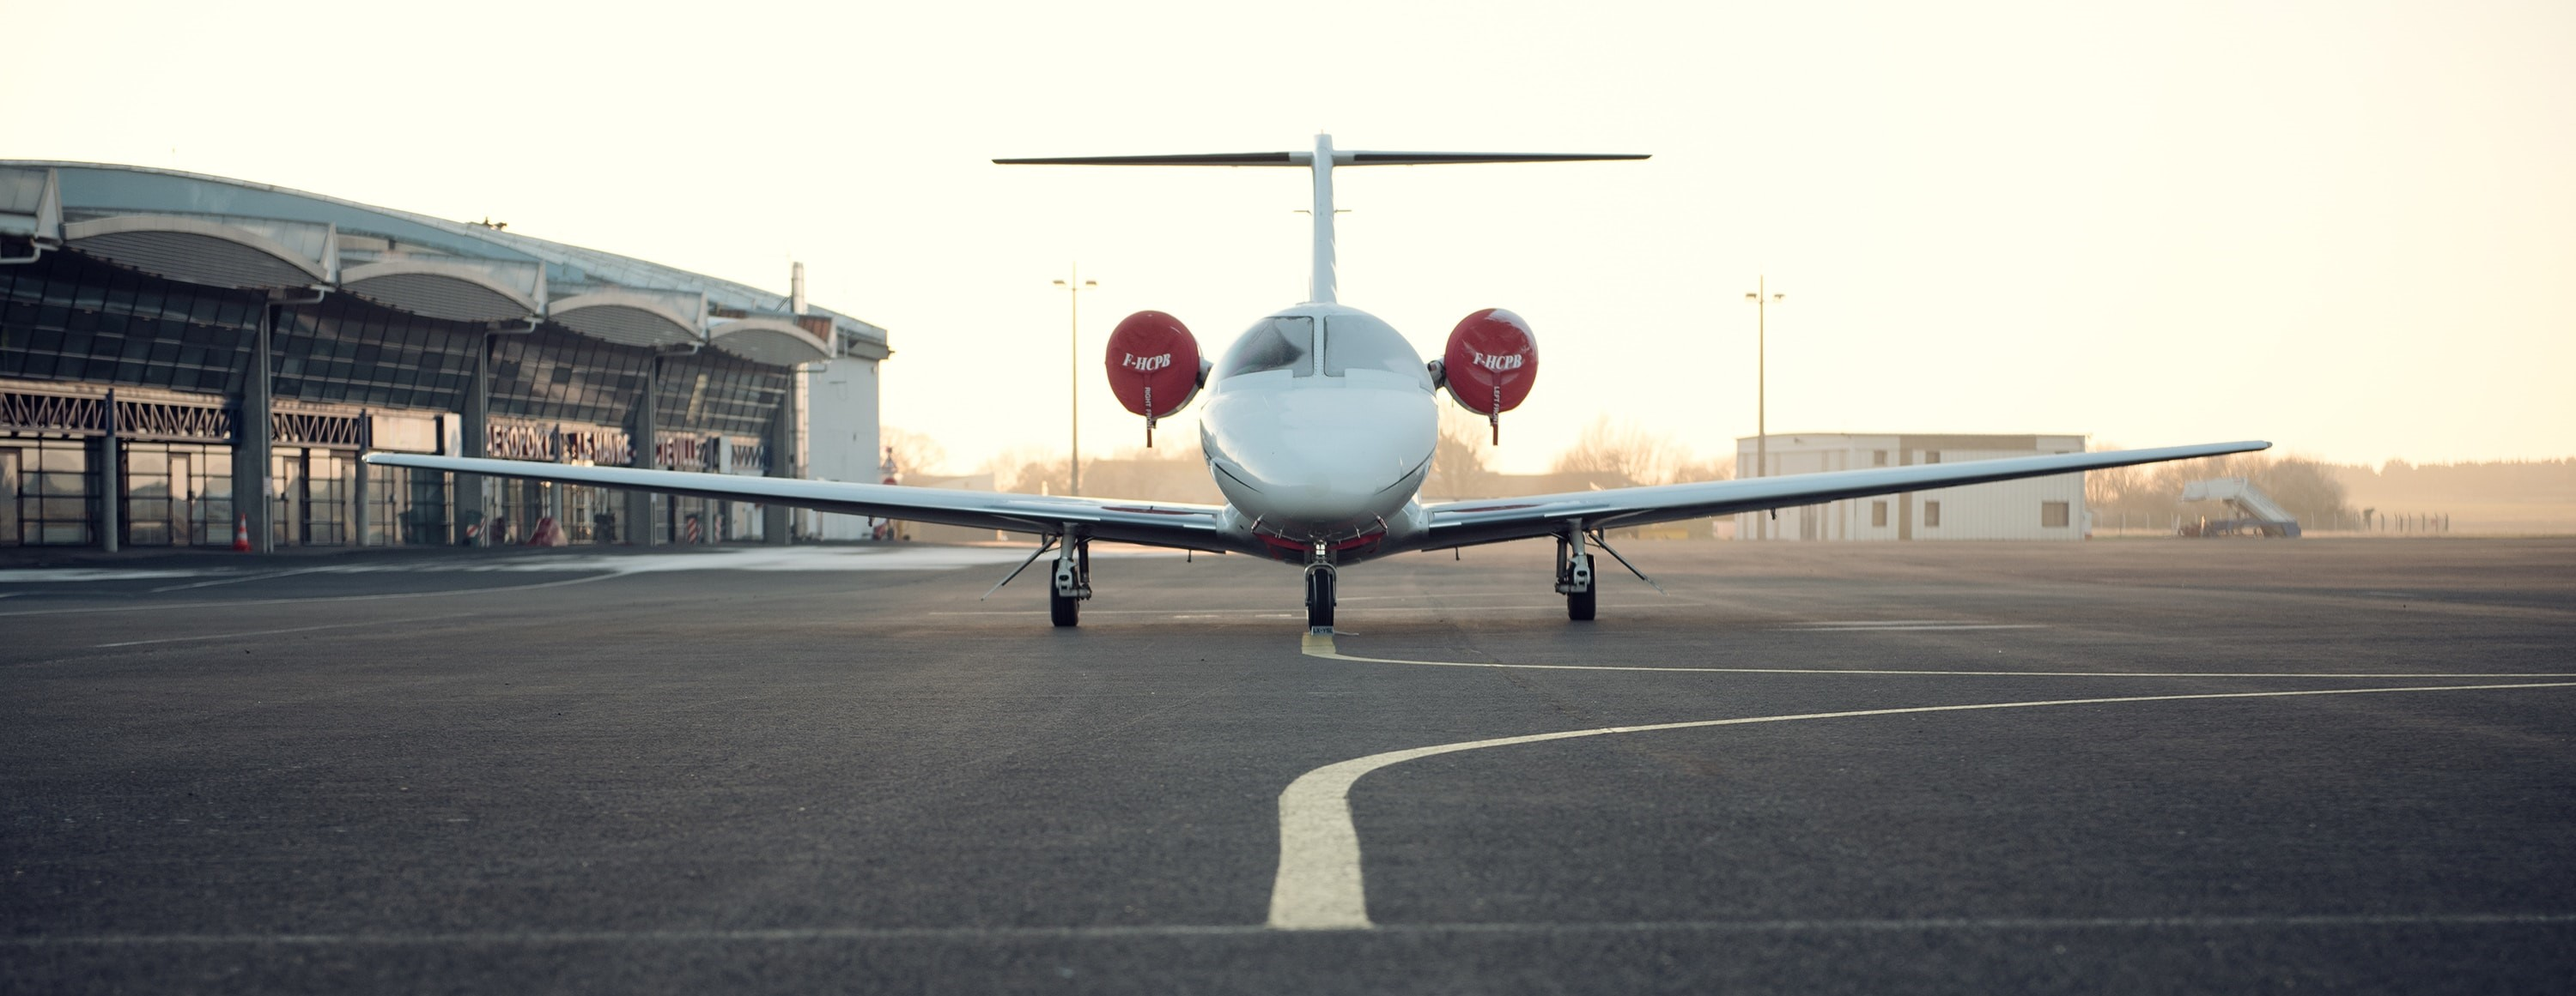
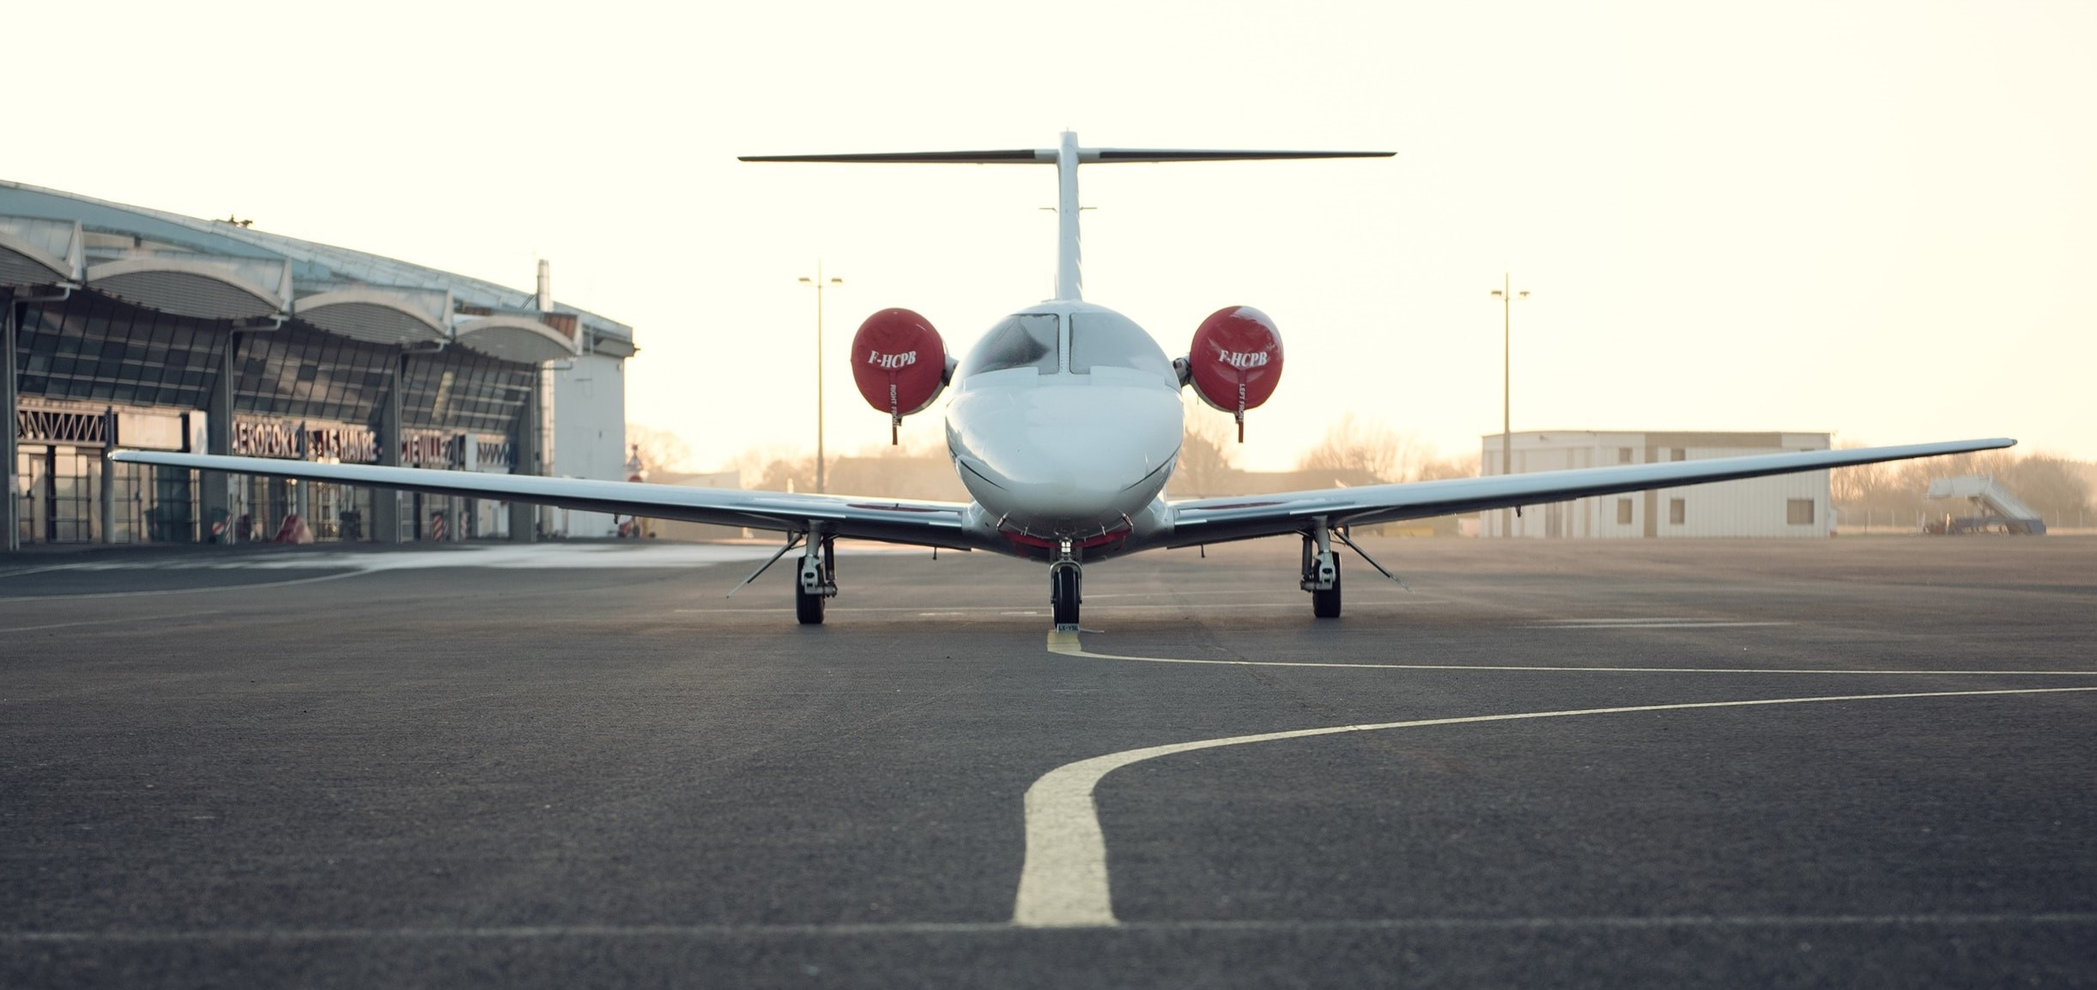
added new features
changed font color and font family and added animations

diff --git a/index.html b/index.html
@@ -4,57 +4,70 @@
 <head>
   <meta charset="utf-8">
   <title>Aeroresh Website</title>
-  <link rel="stylesheet" href="css/styles.css">
   <link rel="stylesheet" href="https://stackpath.bootstrapcdn.com/bootstrap/4.4.1/css/bootstrap.min.css" integrity="sha384-Vkoo8x4CGsO3+Hhxv8T/Q5PaXtkKtu6ug5TOeNV6gBiFeWPGFN9MuhOf23Q9Ifjh" crossorigin="anonymous">
+  <link href="https://fonts.googleapis.com/css?family=Montserrat:300,400,700,900&display=swap" rel="stylesheet">
+  <link href="https://unpkg.com/aos@2.3.1/dist/aos.css" rel="stylesheet">
+  <link rel="stylesheet" href="css/styles.css">
   <script src="https://kit.fontawesome.com/9f7fe4ea4a.js" crossorigin="anonymous"></script>
 </head>
 
 <body>
   <section id="navigation">
     <nav class="navbar navbar-expand-lg navbar-light bg-white">
-      <a class="navbar-brand" href="#">Aeroresh</a>
+      <a class="navbar-brand navText" href="#">Aeroresh</a>
       <button class="navbar-toggler" type="button" data-toggle="collapse" data-target="#navbarNavDropdown" aria-controls="navbarNavDropdown" aria-expanded="false" aria-label="Toggle navigation">
         <span class="navbar-toggler-icon"></span>
       </button>
       <div class="collapse navbar-collapse" id="navbarNavDropdown">
         <ul class="navbar-nav ml-auto">
           <li class="nav-item">
-            <a class="nav-link" href="#">Home <span class="sr-only">(current)</span></a>
+            <a class="nav-link navText" href="#">Home <span class="sr-only">(current)</span></a>
           </li>
           <li class="nav-item">
-            <a class="nav-link" href="#">Contact</a>
+            <a class="nav-link navText" href="#">Contact</a>
           </li>
         </ul>
       </div>
     </nav>
   </section>
   <section id="introduction">
-      <img class="introImg" src="img/Aeroplane.jpg" alt="picture of an aeroplane">
+      <img class="introImg" src="img/Aeroplane-blue.jpg" alt="picture of an aeroplane">
       <div class="introContainer">
-        <h1><span class="rounded bg-white">Aeroresh</span></h1>
-        <h3 class="rounded bg-white">Aircraft, Oil and Commodity Trading</h3>
+        <h1><span class="montBlack">Aeroresh</span></h1>
+        <h3 class="montLight">Aircraft, Oil and Commodity Trading</h3>
+        <button class="btn btn-light introBtn" type="button" name="button">Get In Touch</button>
       </div>
   </section>
   <section id="about">
     <div class="container">
-      <h3>Our Core Products</h3>
-      <p>Based at Hawarden Airport (EGNR) in the United Kingdom, Aero Services
-      Consulting Ltd is an Aviation Consultancy company who specialise in
-      offering industry advice to clients all over the world. </p>
-      <ul>
-        <li>Charter an aircraft from Hawarden airport and take advantage of
-        empty legs, minimal positioning and based aircraft available for ad-hoc
-        charter. </li>
-        <li>Visit us at Hawarden Airport for a free aircraft purchasing
-        consultation.</li>
-        <li>Come and visit us in the North West of England to review our
-        aircraft engine and major assets portfolio.</li>
-        <li>We also take stock of small parts and ground equipment for sale and
-        lease. Our dynamic inventory is constantly being updated so get in
-        touch for our latest lists.</li>
-      </ul>
-      <p>We look forward to assisting you in the future!</p>
-    </div>
+      <div class="row rowMargin">
+        <div class="col-6" data-aos="fade-right" data-aos-offset="300" data-aos-easing="ease-in-sine">
+          <h3 class="colH3">Lorem ipsum dolor sit amet, consectetur adipiscing elit. Donec rutrum, ipsum et hendrerit ultricies, metus.</h1>
+        </div>
+        <div class="col-6">
+          <p>Lorem ipsum dolor sit amet, consectetur adipiscing elit. Vestibulum
+            auctor nunc nec diam pharetra, sed scelerisque ipsum fermentum.
+            Phasellus sed eros efficitur, laoreet massa at, fringilla purus.
+            Cras aliquam rhoncus hendrerit. Vestibulum vitae consectetur augue.
+            Nullam arcu orci, faucibus non mi non, dignissim sollicitudin augue.
+            Sed euismod blandit mi sit amet sodales. Proin suscipit ipsum
+            tincidunt tellus gravida, eget eleifend diam porttitor.</p>
+        </div>
+      </div>
+      <div class="row rowMargin">
+        <div class="col-6">
+          <p>Lorem ipsum dolor sit amet, consectetur adipiscing elit. Vestibulum
+            auctor nunc nec diam pharetra, sed scelerisque ipsum fermentum.
+            Phasellus sed eros efficitur, laoreet massa at, fringilla purus.
+            Cras aliquam rhoncus hendrerit. Vestibulum vitae consectetur augue.
+            Nullam arcu orci, faucibus non mi non, dignissim sollicitudin augue.
+            Sed euismod blandit mi sit amet sodales. Proin suscipit ipsum
+            tincidunt tellus gravida, eget eleifend diam porttitor.</p>
+        </div>
+        <div class="col-6" data-aos="fade-left" data-aos-offset="300" data-aos-easing="ease-in-sine">
+          <h3 class="colH3">Lorem ipsum dolor sit amet, consectetur adipiscing elit. Donec rutrum, ipsum et hendrerit ultricies, metus.</h1>
+        </div>
+      </div>
   </section>
   <section id="footer">
     <div class="container">
@@ -77,6 +90,10 @@
   <script src="https://code.jquery.com/jquery-3.4.1.slim.min.js" integrity="sha384-J6qa4849blE2+poT4WnyKhv5vZF5SrPo0iEjwBvKU7imGFAV0wwj1yYfoRSJoZ+n" crossorigin="anonymous"></script>
 <script src="https://cdn.jsdelivr.net/npm/popper.js@1.16.0/dist/umd/popper.min.js" integrity="sha384-Q6E9RHvbIyZFJoft+2mJbHaEWldlvI9IOYy5n3zV9zzTtmI3UksdQRVvoxMfooAo" crossorigin="anonymous"></script>
 <script src="https://stackpath.bootstrapcdn.com/bootstrap/4.4.1/js/bootstrap.min.js" integrity="sha384-wfSDF2E50Y2D1uUdj0O3uMBJnjuUD4Ih7YwaYd1iqfktj0Uod8GCExl3Og8ifwB6" crossorigin="anonymous"></script>
+<script src="https://unpkg.com/aos@2.3.1/dist/aos.js"></script>
+<script>
+  AOS.init();
+</script>
 </body>
 
 </html>

diff --git a/css/styles.css b/css/styles.css
@@ -1,18 +1,33 @@
 
+body {
+  font-family: 'Montserrat', sans-serif;
+}
+.montBlack{
+  font-weight: 900;
+}
+.montLight {
+  font-weight: 300;
+}
+
 /* Navigation Section */
 #navigation {
   padding: 0 1rem;
 }
-
+.navText {
+  font-size: 20px;
+}
 /* introduction Section */
 #introduction {
   position: relative
 }
 
-#introduction span, h3 {
+#introduction span,h3 {
   padding: 2px 1rem;
+  color: white;
 }
-
+.introBtn {
+  margin-left: 16px;
+}
 .introImg {
   width: 100%;
 }
@@ -25,9 +40,17 @@
 /* about section */
 
 #about {
+  margin: 4rem 0;
+}
+
+.rowMargin {
   margin: 2rem 0;
 }
 
+.colH3 {
+  color: #27496d;
+  font-weight: 700;
+}
 /* footer section */
 
 #footer {
